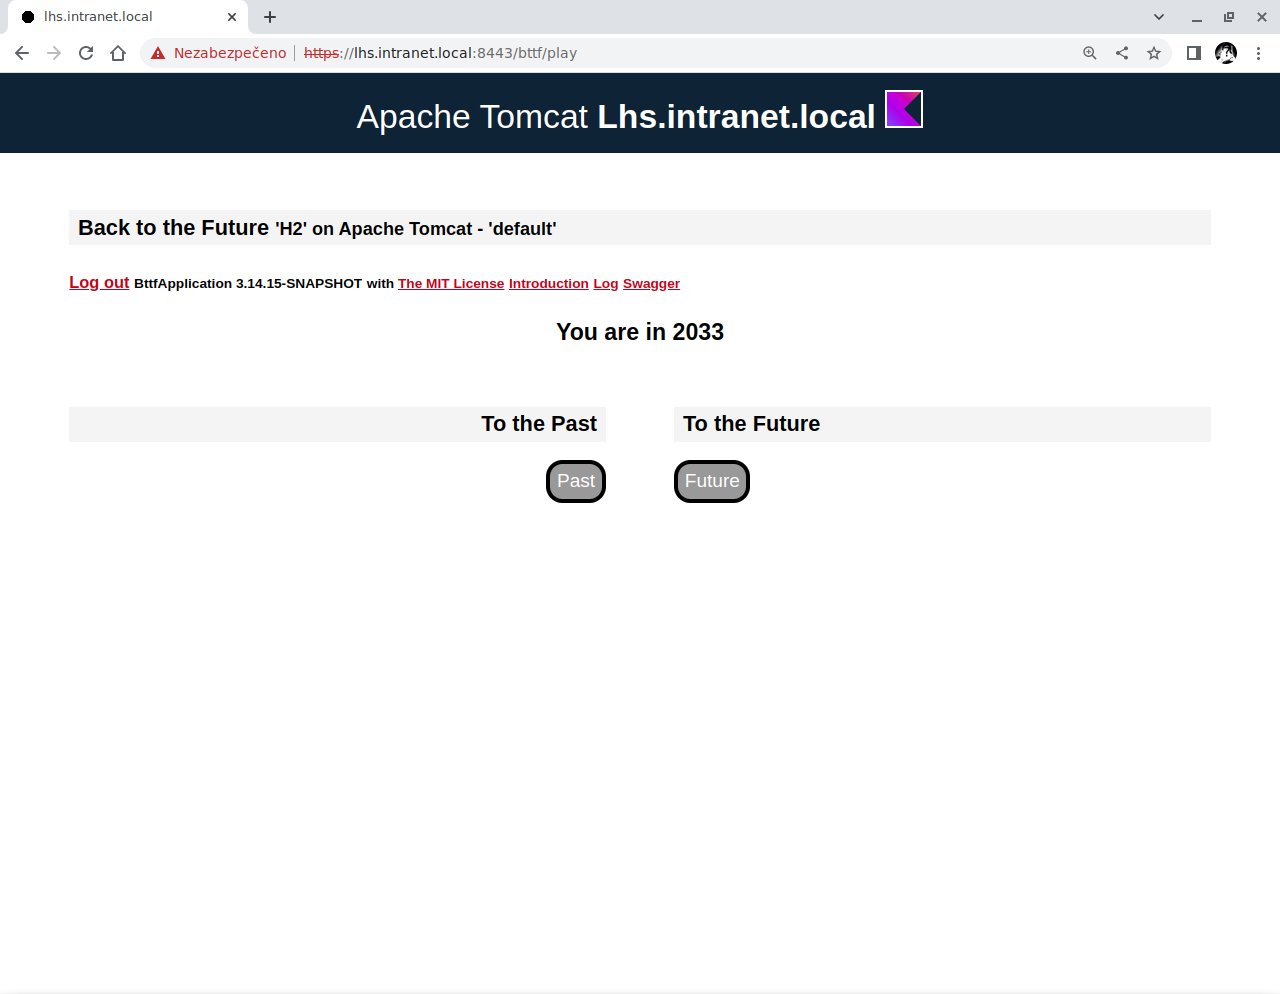
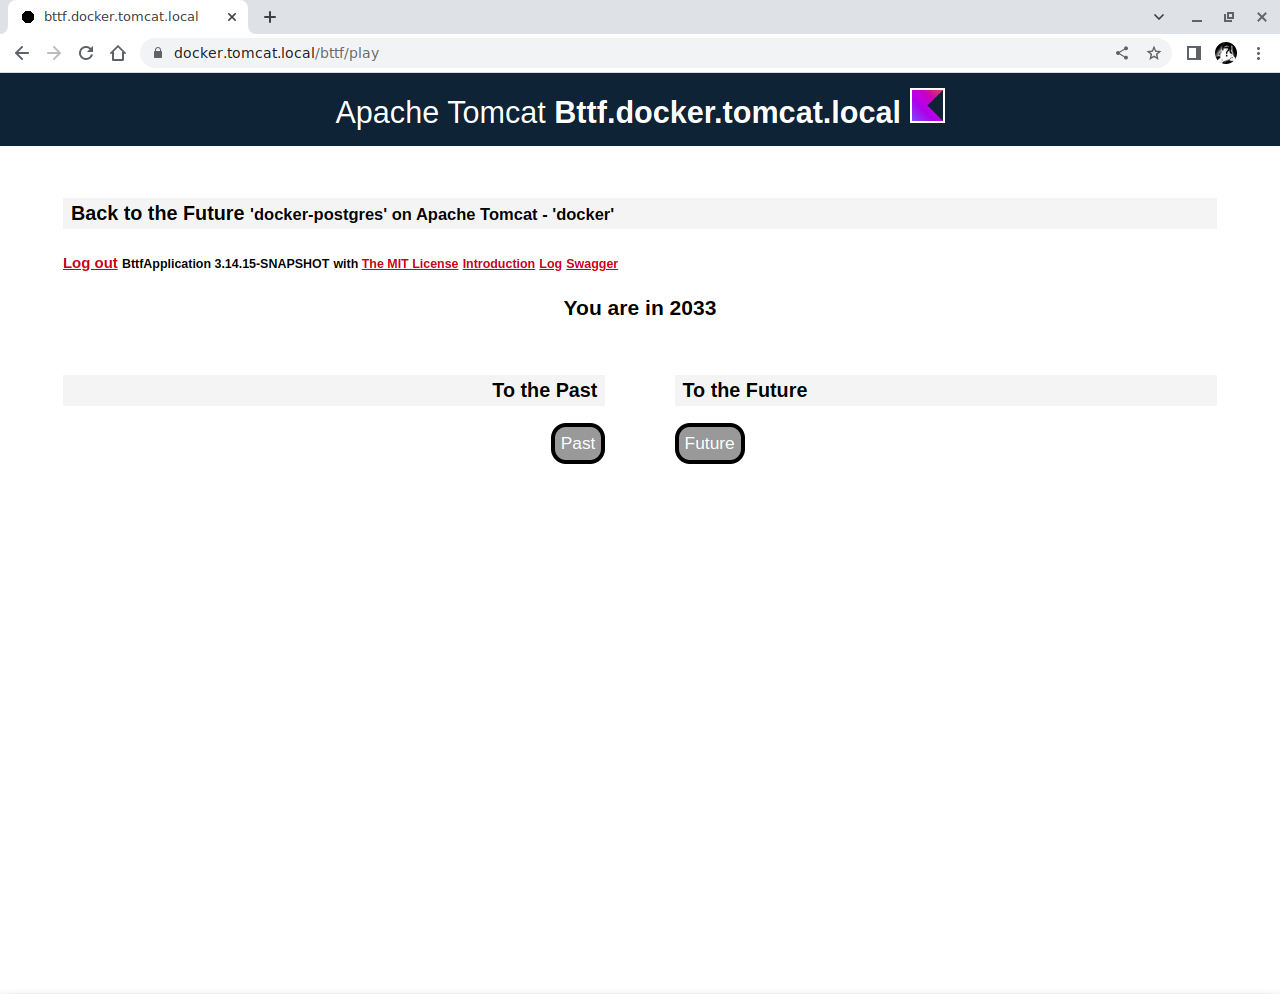
.

diff --git a/bttf-app/src/main/webapp/res/style.css b/bttf-app/src/main/webapp/res/style.css
@@ -206,15 +206,15 @@ a:hover img {
 }
 .submit {
   cursor: pointer;
-  display: inline-block;
-  font-size: 1.3em;
-  font-weight: bold;
-  padding: 1px;
-  border: 1px solid #000;
-  border-radius: 3px;
+  outline: none;
+  background-color: #999;
+  color: #fff;
+  padding: 6px;
+  border: 4px solid #000;
+  border-radius: 15px;
 }
 .submit:hover {
-  background-color: #b4d5ff;
+  background-color: #666;
 }
 .topBtn {
   opacity: 0.8;
